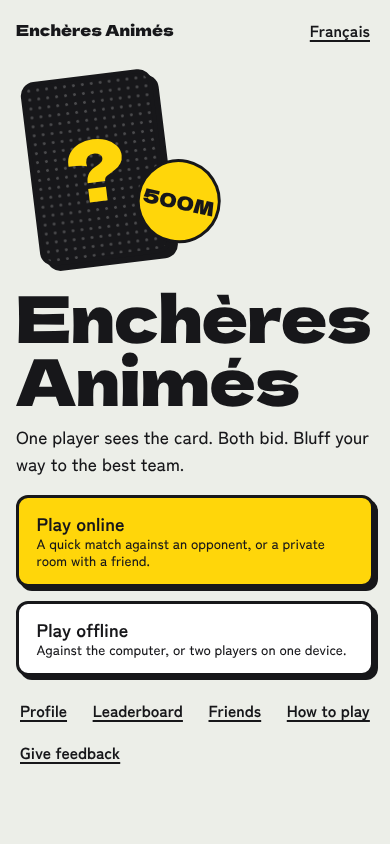
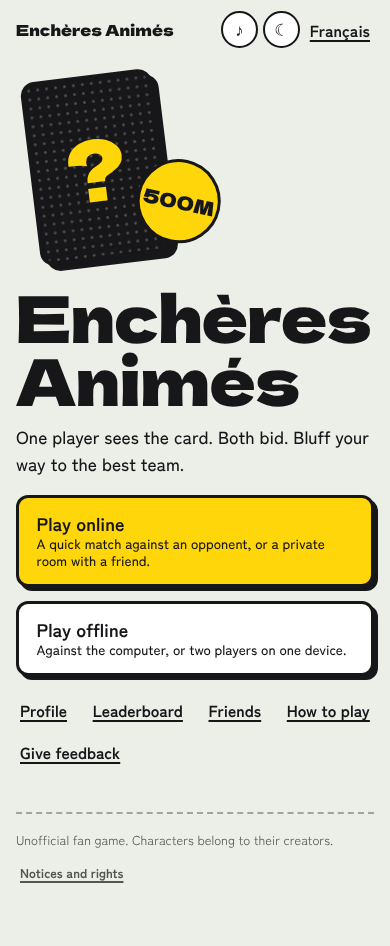
Document seasons, the Edge Function opponent and the new presentation
Claude-Session: https://claude.ai/code/session_01FZ2aQBNwL3tz9V2NRCEAX1

diff --git a/docs/HANDOFF.md b/docs/HANDOFF.md
@@ -22,6 +22,7 @@ The French name is **Enchères Animés**. An English name has not been chosen (s
 | Source | https://github.com/Faryaan-Khan/anime-encheres (branch `main`) |
 | Hosting | Netlify, builds and deploys every push to `main` |
 | Database | Supabase project `iwlmrwwuslebvaqjahnt` (URL and publishable key are in `.env`; both are public by design) |
+| Edge Function | `opponent` in the same Supabase project: the stronger computer opponent |
 | CI | GitHub Actions: type check, tests, build (`.github/workflows/ci.yml`) |
 
 Nothing runs on anyone's computer or browser. The site is served by Netlify and the game
@@ -35,9 +36,10 @@ built from. The only manual step in the whole system is applying a new database 
 npm install
 npm run dev          # local site, talks to the live database through .env
 npm run typecheck    # TypeScript strict
-npm test             # 179 unit and database tests (no external service needed)
+npm test             # 186 unit and database tests (no external service needed)
 npm run test:e2e     # real browsers against the real SQL; needs Chrome (CHROME_PATH)
 npm run ratings      # after editing src/data/rosters.json
+npm run build:opponent  # after editing src/bot/: rebuild the Edge Function bundle
 npm run build
 ```
 
@@ -72,6 +74,9 @@ src/match/       Quick-match settings and the list of ranked modes
 src/screens/     One file per screen
 src/components/  Board, cards, bid controls, final screen, avatar
 src/ranking.ts   Leagues, badges and the overall-score formula (display side)
+src/theme.ts     Light/dark theme
+src/sound.ts     Sound effects, synthesized with Web Audio (no audio files)
+supabase/functions/opponent/   Edge Function: the look-ahead opponent (bundle.js is generated)
 supabase/migrations/   The database, in order (below)
 supabase/tests/        Database tests, run in PGlite (Postgres in WebAssembly)
 e2e/online.e2e.mjs     Browser test: several isolated browsers play through the real UI
@@ -94,7 +99,9 @@ Migrations, to be run in this order in the Supabase SQL editor. All are idempote
 | `0003_ranking.sql` | Profiles, match records, feedback, rate limits, server-side verdict |
 | `0004_character_powers.sql` | Generated. Every card's power and universe. Re-run after rating changes |
 | `0005_accounts_and_opponent.sql` | Recovery codes, sign-in linking, the computer opponent played by the database, `encheres.config` |
-| `0006_modes_and_friends.sql` | One queue, rating and leaderboard per mode, overall score, monthly seasons, friends, invitations |
+| `0006_modes_and_friends.sql` | One queue, rating and leaderboard per mode, overall score, friends, invitations |
+| `0007_seasons.sql` | Monthly seasons from zero, `season_results` history, rights-request feedback |
+| `0008_opponent_brain.sql` | pg_net hand-off of strong opponents' bids to the Edge Function, with fallback |
 
 Functions the client calls:
 
@@ -108,14 +115,18 @@ Functions the client calls:
 | `get_friends`, `add_friend`, `answer_friend`, `remove_friend` | Friends by player tag |
 | `invite_friend`, `dismiss_invite` | Invitations to a private room |
 | `recovery_code`, `redeem_code`, `link_account` | Keeping a profile across devices |
-| `send_feedback` | The feedback form |
+| `send_feedback` | The feedback form (also rights requests) |
+| `opponent_claim` | Used only by the Edge Function, with a one-time secret from the database |
 
 Tables: `rooms`, `room_players`, `profiles`, `devices`, `ratings` (trophies per mode),
-`matches` (every finished online game with its action log), `friends`, `invites`,
-`feedback`, `characters`, `config`, `rate_limits`.
+`season_results` (each finished season per player and mode), `matches` (every finished
+online game with its action log), `friends`, `invites`, `feedback`, `characters`,
+`config`, `rate_limits`.
 
 Settings that can be changed without a migration are rows of `encheres.config`:
-`opponent_enabled`, `opponent_after_seconds`, `opponent_pace`, `season`.
+`opponent_enabled`, `opponent_after_seconds`, `opponent_pace`, `opponent_function_url`
+(`null` turns the Edge Function off), `opponent_lookahead_from` (skill from which it is
+used, 0.6), `season` (managed by the server).
 
 To read player feedback: Supabase, Table Editor, schema `encheres`, table `feedback`.
 
@@ -165,12 +176,20 @@ Short versions; details and reasons are in `docs/ARCHITECTURE.md`.
 - **Overall score.** A weighted average of a player's trophies over every mode. `mix`
   counts double; a mode never played counts as zero. With seven universes that is nine
   shares. It is what the world ranking and the profile headline show.
-- **Seasons.** On the first of each month, every rating above 2200 (the Legend entrance)
-  returns to 2200. It happens the first time anyone calls the server in the new month.
+- **Seasons.** On the first of each month (UTC) every rating and overall score returns
+  to 0, after each player's result for the month is filed in `season_results`. It
+  happens the first time anyone calls the server in the new month. All-time bests are
+  kept; the profile shows records and past seasons.
 - **Computer opponent online.** If nobody is found in 12 to 18 seconds, the database
   seats an opponent with an ordinary name and plays its moves when the player's device
   polls. Players are not told; this was the owner's decision. Its skill follows the
-  player's trophies in that mode. `opponent_enabled` turns it off.
+  player's trophies in that mode. `opponent_enabled` turns it off. From skill 0.6 its
+  bids come from the Edge Function's look-ahead player (about 63% against the offline
+  hard level); below that, or if the function does not answer within 6 seconds, from
+  the SQL rule-based player.
+- **Cards and presentation.** Rarity frames (Common to Mythic, Apex for each universe's
+  strongest) are CSS only. Dark theme, synthesized sounds and effects are described in
+  `docs/ARCHITECTURE.md`.
 - **Friends.** Players exchange a seven-character tag. A request must be accepted. There
   is a friends leaderboard, and the host of a private room can invite a friend, who sees
   the invitation on the home screen.
@@ -180,8 +199,9 @@ Short versions; details and reasons are in `docs/ARCHITECTURE.md`.
 Done and live: same-device and offline play against two computer levels; private online
 rooms; quick matches in eight modes with a turn clock; server-played opponent; profiles
 with statistics, badges, avatar and country; leaderboards (overall, per mode, friends,
-country); monthly Legend reset; recovery codes; friends and invitations; feedback form;
-match recording; security headers; French and English.
+country); monthly seasons from zero with history; recovery codes; friends and
+invitations; feedback form with rights requests; match recording; stronger opponent in
+an Edge Function; rarity cards; dark theme; sound; security headers; French and English.
 
 Built but switched off: Google sign-in. It needs an OAuth client created in the owner's
 Google Cloud account and its id and secret entered in Supabase (steps in
@@ -195,8 +215,13 @@ but has not been exercised against the live provider.
   sites. A new candidate is needed before any rename.
 - **Repository visibility.** Public today, with an all-rights-reserved licence.
 - **App stores, donations, paid features, in-game currency.** Deferred by the owner.
-- **Character rights.** Names only, no artwork. The owner intends to revisit this before
-  any commercial step.
+- **Character rights.** Names only, no artwork. Draft Anime (draftanime.com), which the
+  owner pointed to, shows character pictures and relies on a fan-made disclaimer, a
+  statement that franchise material belongs to its owners, and a DMCA/rights-request
+  process. This game has the same notices (`#/legal`, footer, a "rights" feedback topic)
+  but deliberately no pictures: a disclaimer and a takedown route reduce risk, they do
+  not grant the right to use the art. Pictures can be dropped into `src/assets/cards/`
+  only if the owner has the rights to them.
 - **When to switch off the computer opponent.** The owner's idea is once there are
   enough players (he mentioned about ten thousand).
 
@@ -205,8 +230,9 @@ but has not been exercised against the live provider.
 - A learning opponent trained on the recorded matches (`encheres.matches.log`).
 - Cheat detection from the same records.
 - "Undercover" and dice variants, spectators.
-- Moving the stronger look-ahead opponent online (it would need a server runtime such as
-  a Supabase Edge Function; a database function is too slow for it).
+- Teaching the online opponent from recorded games, or letting it learn each player's
+  bluffing during a match (the offline levels already do the latter; the Edge Function
+  starts each decision with a neutral guess).
 
 ### Known limits
 
@@ -217,3 +243,6 @@ but has not been exercised against the live provider.
   on the server, which is what a copy would lack.
 - Supabase pauses free projects after about a week without activity.
 - Statistics (games, wins, streaks) are global; only trophies are per mode.
+- The Edge Function is deployed by pasting `bundle.js` in the dashboard; it is not
+  redeployed by CI. Rebuild and redeploy it when `src/bot/` changes.
+- Sound needs one tap on the page before browsers allow it.

diff --git a/docs/ARCHITECTURE.md b/docs/ARCHITECTURE.md
@@ -274,11 +274,15 @@ and gives the database its own copy of the power ratings.
   for knowledge of every series. A mode never played counts as zero, so the score rewards
   breadth. `src/ranking.ts` has the same formula for display, and a test compares the
   two.
-- **Seasons.** `roll_season` runs at the start of the calls that read or change ratings.
-  When the month differs from the one stored in `encheres.config`, every rating above
-  the Legend entrance (2200) is set back to it and the affected overall scores are
-  recomputed. There is no scheduler: the first call of the month does the work, under a
-  lock.
+- **Seasons** (`0007_seasons.sql`). `roll_season` runs at the start of the calls that
+  read or change ratings. When the month differs from the one stored in
+  `encheres.config`, it first files every player's result for the month that ended in
+  `season_results` (final trophies, best of the month, final rank and number of players,
+  per mode and for the overall score), then sets every rating and overall score back to
+  0. There is no scheduler: the first call of the month does the work, under a lock.
+  All-time bests (`ratings.best`, `profiles.best_trophies`) are never reset; the profile
+  shows them with the best league and best rank ever reached and the last twelve seasons.
+  Leaderboards and world rank count only players who have played this season.
 - **Compatibility.** Apps opened before modes existed send a card list and no mode; the
   server works the mode out from the cards. They also ask for a weekly leaderboard,
   which now returns an empty table.
@@ -300,6 +304,49 @@ A token hash, a display name, a public tag, an optional country code, an avatar 
 trophies per mode and counters, the list of friends, the games played with their action logs, and any feedback sent (with a contact
 only if the player typed one). Network addresses are never stored, only a hash used for
 rate limiting, deleted after a day. No email, password or device information.
+
+### The stronger opponent (Edge Function)
+
+`0008_opponent_brain.sql` and `supabase/functions/opponent/`.
+
+The rule-based player in SQL tops out around the strength of the offline "hard" level.
+A look-ahead player that imagines dozens of continuations per decision is clearly
+stronger, especially when its imagined opponents play with the expert's rules: in
+simulation it beats the offline hard level about 63% of the time (180 games, six
+universes). It is too heavy for a database function, so it runs in a Supabase Edge
+Function, which is the TypeScript of `src/bot/bot.ts` bundled into one file.
+
+- **When.** From a skill of 0.6 (about 720 trophies in the mode), for bidding decisions.
+  Draws, reveals and weaker opponents stay in SQL.
+- **How.** When the computer's pause is over, `bot_step` stores a one-time secret in the
+  room, records which position it is for, and sends the room code and the secret to the
+  function with `pg_net` (asynchronous HTTP from the database). The function exchanges
+  the secret for the computer's own view of the room (`opponent_claim`, which only
+  answers once, for that position, while it is the computer's turn), decides, and plays
+  through `play` with the computer's token like any player.
+- **Safety.** Players never see the secret or the computer's token; without both, the
+  function can do nothing. The function itself holds no secret and runs without JWT
+  verification. Its view is the filtered seat view, so it cannot see a card the player
+  drew.
+- **Fallback.** If the function has not moved six seconds after being asked (not
+  deployed, cold, failing), `bot_step` plays the rule-based move. Setting
+  `opponent_function_url` to `null` in `encheres.config` turns the function off.
+
+### Presentation: rarity, theme, sound, effects
+
+- **Rarity** is visual only (`rarityOf` in `src/data/characters.ts`): the tier within the
+  universe maps to Common, Rare, Epic, Legendary and Mythic, and the strongest character
+  of each universe is Apex. Frames, glow, the holographic sheen and the pointer tilt are
+  CSS in `src/styles.css`; no image is involved.
+- **Theme** (`src/theme.ts`): light or dark, following the device until the player
+  chooses, applied before the first render. Dark mode redefines the colour variables;
+  anything on an accent colour keeps dark text.
+- **Sound** (`src/sound.ts`): every effect is synthesized with the Web Audio API, so
+  there are no audio files. The board compares each view with the previous one to play
+  draws, bids, being outbid, passes, wins and losses; the clock ticks in the last ten
+  seconds; the final screen plays a fanfare. A header button mutes it.
+- **Effects** (`src/components/Effects.tsx`): confetti on a win and numbers that count
+  up. Everything respects the reduced-motion setting.
 
 ### Never missing a result
 
@@ -327,6 +374,7 @@ job or extra infrastructure to maintain.
 | `src/ranking.test.ts` | League thresholds and badges |
 | `supabase/tests/opponent.test.ts` | The computer sits down only after the wait, looks like any player, follows the player's trophies, makes the same decisions as the TypeScript player through whole games, never depends on a card it has not seen, finishes games that count, and wins by forfeit when the player leaves |
 | `supabase/tests/modes.test.ts` | The server's card list per mode equals the app's, separate queues, mode worked out for old apps, per-mode trophies and pairing, the overall score formula in both languages, the monthly reset, friend requests in every state, the friends leaderboard, and invitations |
+| `supabase/tests/opponent.test.ts` (second part) | The hand-off to the Edge Function: asked once per position, waits for it, one-time claim of the computer's own view, the six-second fallback, and that weak opponents or an unconfigured function never use it |
 | `supabase/tests/accounts.test.ts` | Recovery codes (format, hashing, replacement, attempt limits), one profile on two devices, and sign-in linking |
 | `e2e/online.e2e.mjs` | Trophies appear on the final screen, the profile can be edited, the leaderboards list the players, feedback is stored, the computer joins from the server at any rank, and an account is recovered on a second browser with its code. Quick matches too: two searching browsers are paired, a forfeit and a timeout are announced, and a lone player gets an opponent from the server. Two isolated browser sessions play a whole online game through the real UI against the migration. Asserts that the hidden character never appears in the rival's page, that both players see every result, that only the host can start or restart, and that a reload keeps the seat. It runs without a Realtime server, so it also proves the polling fallback is sufficient on its own |
 

diff --git a/docs/DEPLOYMENT.md b/docs/DEPLOYMENT.md
@@ -6,13 +6,15 @@ site; online play needs both.
 ## 1. Database (Supabase)
 
 1. Create a Supabase project (the free plan is enough).
-2. Open **SQL Editor** and run the six scripts in order:
+2. Open **SQL Editor** and run the eight scripts in order:
    [`0001_init.sql`](../supabase/migrations/0001_init.sql),
    [`0002_matchmaking.sql`](../supabase/migrations/0002_matchmaking.sql),
    [`0003_ranking.sql`](../supabase/migrations/0003_ranking.sql),
    [`0004_character_powers.sql`](../supabase/migrations/0004_character_powers.sql),
-   [`0005_accounts_and_opponent.sql`](../supabase/migrations/0005_accounts_and_opponent.sql), then
-   [`0006_modes_and_friends.sql`](../supabase/migrations/0006_modes_and_friends.sql).
+   [`0005_accounts_and_opponent.sql`](../supabase/migrations/0005_accounts_and_opponent.sql),
+   [`0006_modes_and_friends.sql`](../supabase/migrations/0006_modes_and_friends.sql),
+   [`0007_seasons.sql`](../supabase/migrations/0007_seasons.sql), then
+   [`0008_opponent_brain.sql`](../supabase/migrations/0008_opponent_brain.sql).
    The editor warns about "destructive operations" because the scripts contain `revoke`
    and `delete` statements inside function bodies; nothing is removed. All scripts are
    idempotent, so they can be run again after an update.
@@ -32,6 +34,27 @@ update encheres.config set value = 'false' where key = 'opponent_enabled';
 -- How long a player waits before the computer sits down, in seconds (min, max):
 update encheres.config set value = '[12, 18]' where key = 'opponent_after_seconds';
 ```
+
+### The stronger opponent (Edge Function)
+
+Optional; without it the rule-based opponent plays every move.
+
+1. `npm run build:opponent` writes `supabase/functions/opponent/bundle.js`.
+2. In Supabase, **Edge Functions → Deploy a new function → Via Editor**. Paste the whole
+   bundle, name the function `opponent`, deploy. (With the Supabase CLI:
+   `supabase functions deploy opponent --no-verify-jwt`.)
+3. In the function's **Settings**, turn **Verify JWT** off and save. The database calls
+   it without a user token; a one-time secret protects it instead.
+4. In the SQL editor:
+   ```sql
+   update encheres.config
+      set value = to_jsonb('https://<project-ref>.supabase.co/functions/v1/opponent'::text)
+    where key = 'opponent_function_url';
+   ```
+5. To check it: `select status_code, content from net._http_response order by id desc limit 5;`
+   shows `ok` after strong opponents move.
+
+Redeploy the function (steps 1 and 2) whenever `src/bot/` changes.
 
 ### Google sign-in (optional)
 

diff --git a/README.md b/README.md
@@ -51,7 +51,13 @@ rival, during the same auction.
   rank difference, six leagues, pairing with players of a similar level, and the winner
   decided by the server
 - An overall score across all modes, in which the mixed mode counts double, and a
-  monthly reset of the Legend league
+  monthly season: everyone starts again from zero, and each season's result is kept
+- Cards framed by rarity (Common to Mythic, and Apex for the strongest of each series)
+  with glow, holographic sheen, tilt and a flip on reveal
+- A computer opponent online whose strength follows the player's rank; the strongest
+  ones think ahead in a Supabase Edge Function
+- Light and dark themes, sound effects synthesized in the browser, confetti and
+  count-ups
 - Player profiles with statistics, badges, an avatar and a country; leaderboards for the
   overall score and for each mode, worldwide, by country or among friends
 - Friends by player tag, and invitations to private rooms
@@ -101,8 +107,9 @@ Same-device play works immediately. Online play uses the Supabase project config
 | Command | What it does |
 | --- | --- |
 | `npm run dev` | Development server with hot reload |
-| `npm test` | Runs the 179 unit, database, parity, ranking, account, mode and bot tests |
+| `npm test` | Runs the 186 unit, database, parity, ranking, account, mode, season and bot tests |
 | `npm run test:e2e` | Plays private rooms, quick matches, modes, friends and the account screens in headless browser sessions (needs Chrome) |
+| `npm run build:opponent` | Bundles the opponent Edge Function into one file for the Supabase dashboard |
 | `npm run ratings` | Rebuilds the power-ratings document, the CSV and the database seed (`0004`) from `src/data/rosters.json` |
 | `npm run typecheck` | TypeScript in strict mode, no output |
 | `npm run build` | Type check, then production build into `dist/` |

diff --git a/docs/GAME_RULES.md b/docs/GAME_RULES.md
@@ -74,8 +74,16 @@ Your overall score is the average of your trophies in every mode, with the mixed
 counting double because it is the hardest: you need to know every series. A mode you have
 never played counts as zero.
 
-On the first day of each month, everyone above 2200 trophies in a mode starts again from
-2200, the entrance of the Legend league.
+Each month is a season. On the first day of the month everyone starts again from 0
+trophies in every mode. Your profile keeps each past season's result, your highest
+trophies, the best league and the best rank you have ever reached.
+
+### Card rarity
+
+Each card's frame shows where the character stands in their universe: Common, Rare,
+Epic, Legendary or Mythic, and a turning rainbow frame, Apex, for the strongest
+character of each series. Rarity is only a picture of the power rating; the rating is
+what counts.
 
 ### Friends
 
@@ -171,8 +179,16 @@ Ton score global est la moyenne de tes trophées dans tous les modes ; le mode T
 compte double, car c'est le plus difficile : il faut connaître toutes les séries. Un mode
 jamais joué compte pour zéro.
 
-Le premier jour de chaque mois, tous ceux qui dépassent 2200 trophées dans un mode
-repartent de 2200, l'entrée de la ligue Légende.
+Chaque mois est une saison. Le premier jour du mois, tout le monde repart de 0 trophée
+dans chaque mode. Ton profil garde le résultat de chaque saison passée, ton record de
+trophées, la meilleure ligue et le meilleur rang que tu as atteints.
+
+### Rareté des cartes
+
+Le cadre de chaque carte montre la place du personnage dans son univers : Commune, Rare,
+Épique, Légendaire ou Mythique, et un cadre arc-en-ciel tournant, Sommet, pour le plus
+fort de chaque série. La rareté n'est qu'une image de la note de puissance ; c'est la
+note qui compte.
 
 ### Amis
 

diff --git a/docs/PORTFOLIO.md b/docs/PORTFOLIO.md
@@ -53,7 +53,7 @@ Pick three or four.
 - Added abuse controls without accounts: per-device and per-address rate limits (addresses
   stored only as hashes), input validation in every function, and a strict Content
   Security Policy on the site.
-- Set up CI with GitHub Actions (type check, 179 tests, production build) and continuous
+- Set up CI with GitHub Actions (type check, 186 tests, production build) and continuous
   deployment to Netlify.
 
 ## Skills demonstrated
